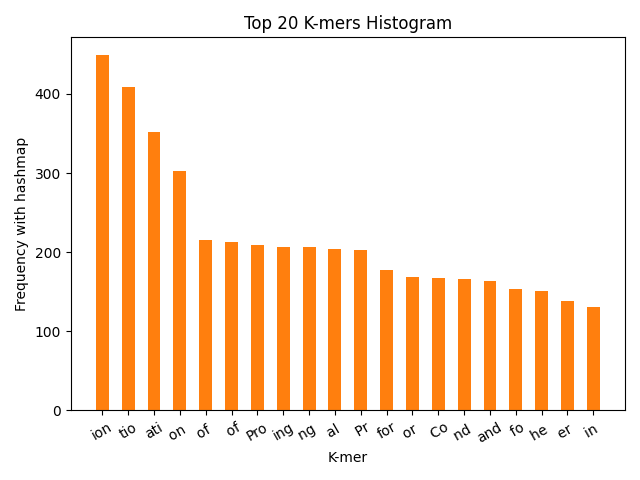
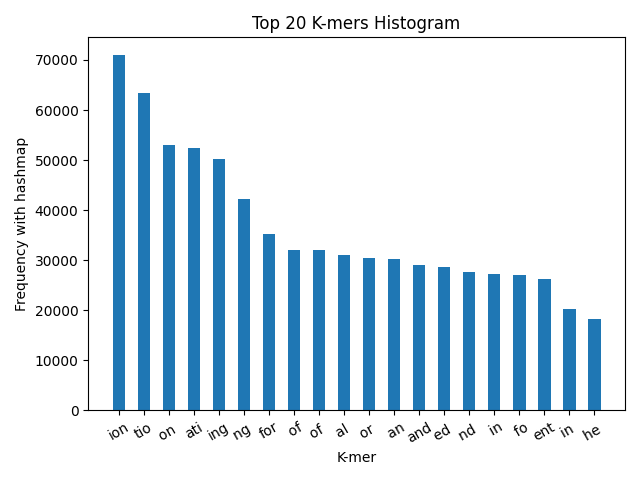
Updated test for histogram

diff --git a/Main.py b/Main.py
@@ -19,13 +19,13 @@ def main():
         #lambda current_paper: print_paper(current_paper),
         lambda current_paper: mer_hashtable(current_paper, 3, dblp_mer_hash)
     ]
-    parse_DBLP_file(file_path_dblp, dblp_callbacks,10000)
+    parse_DBLP_file(file_path_dblp, dblp_callbacks,100000)
 
     mag_callbacks = [
         #lambda current_paper: print_paper(current_paper),
         lambda current_paper: mer_hashtable(current_paper, 3, mag_mer_hash) 
     ]
-    parse_MAG_file(file_path_MAG, mag_callbacks,10000)
+    parse_MAG_file(file_path_MAG, mag_callbacks,100000)
 
     #memoryatend = process.memory_info().rss 
     #print(memoryatend/1024/1024)
@@ -41,7 +41,7 @@ def main():
     histogramQuery(query_count2)
     histogramQuery(query_count3, filename="query_histogram_DBLP_3.png")
 
-    #histogramMers(dblp_mer_hash, filename="most_frequent_mer_DBLP_histogram.png")
+    histogramMers(dblp_mer_hash, filename="most_frequent_mer_DBLP_histogram.png")
     #histogramMers(mag_mer_hash, filename="most_frequent_mer_MAG_histogram.png")
  
 
